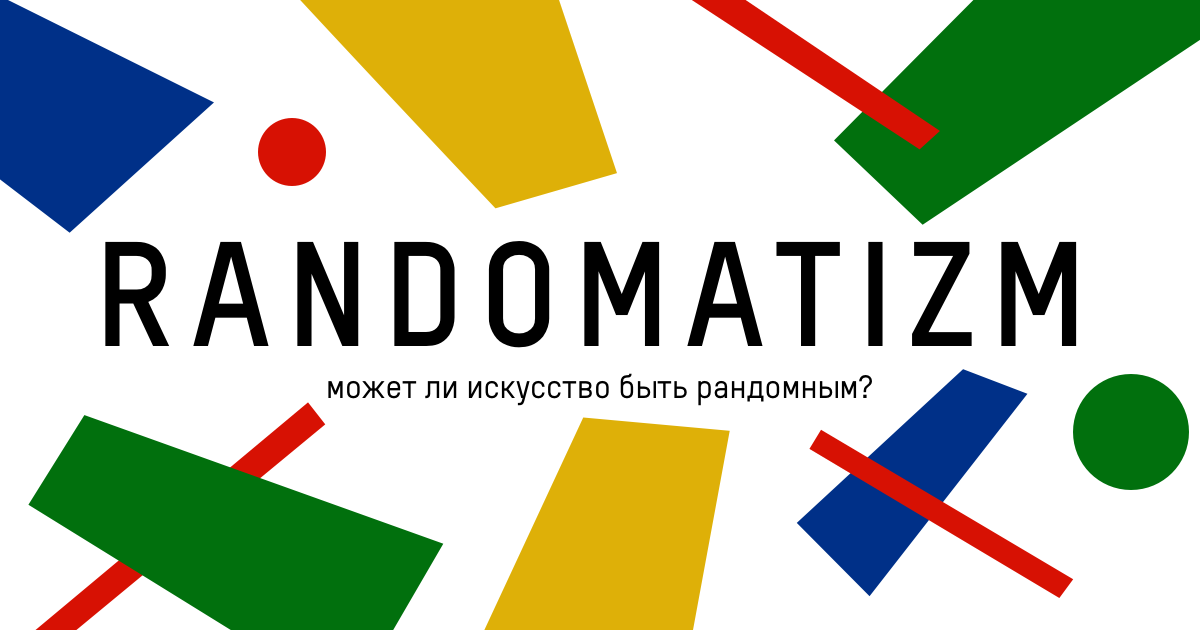
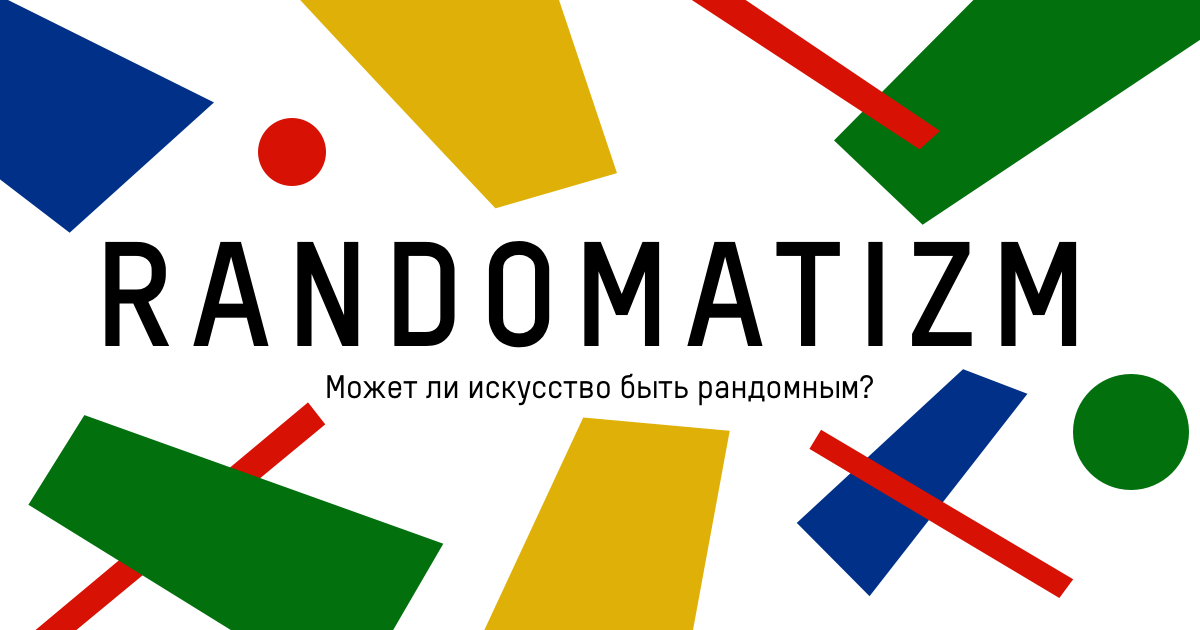
og, картинка

Changed region(s): [[0.2467, 0.6032, 0.74, 0.6333]]

diff --git a/index.html b/index.html
@@ -5,13 +5,13 @@
   <meta name="viewport" content="width=device-width">
   <title>RANDOMATIZM</title>
 
-  <meta name="description" content="Рандомизируем супрематизм.">
+  <meta name="description" content="Может ли искусство быть рандомным?">
   <meta name="keywords" content="art, suprematizm, random, randomatizm, malevich, design, avant-garde, hse, HSEDC2020">
 
   <meta property="og:type" content="website">
   <meta property="og:url" content="http://randomatizm.hack.exchange/">
-  <meta property="og:title" content="RANDOMATIZM">
-  <meta property="og:description" content="Рандомизируем супрематизм.">
+  <meta property="og:title" content="RANDOMATIZM — рандомизируем супрематизм">
+  <meta property="og:description" content="Может ли искусство быть рандомным?">
   <meta property="og:image" content="http://randomatizm.hack.exchange/materials/share.png">
 
 
@@ -70,7 +70,7 @@
       <div class="textFlex">
           <div class="text">
             <h1 class="topText"></h1>
-            <h2 class="bottomText">может ли искусство быть рандомным?</h2>
+            <h2 class="bottomText opacityZero">Может ли искусство быть рандомным?</h2>
           </div>
       </div>
 

diff --git a/stylesheets/index.css b/stylesheets/index.css
@@ -60,6 +60,10 @@ body {
   margin-top: -14vh;
 }
 
+.bottomText {
+  transition: 1s;
+}
+
 .arrow {
   position: absolute;
   width: 100vw;
@@ -207,7 +211,7 @@ h1 {
 h2 {
   font-size: 32px;
   font-family:  T-StarPro-Medium;
-  display: none;
+  /*display: none;*/
 }
 
 h3 {
@@ -298,9 +302,9 @@ p {
     font-family: T-StarPro;
   }
 
-  /*.picture {
-    position: relative;
-  }*/
+  .text {
+    margin-top: 0;
+  }
 
   .pic1, .pic2, .pic3, .pic4, .pic5, .pic6, .pic7, .pic8, .pic9, .pic10, .pic11, .pic12, .pic13, .pic14, .pic15, .pic16 {
     top: 0;

diff --git a/javascripts/scenario.js b/javascripts/scenario.js
@@ -13,19 +13,16 @@ $(function(){
     $('div.s1_bg').addClass('bgOpacity');
   }
 
-
+  function bottomText() {
+    $('.bottomText').toggleClass('opacityZero');
+  }
 
   $('.topText').fadeIn(10);
-
   $('.s1_bg').fadeIn(1000);
 
   setTimeout(bgOpacity, 2400)
-
   setTimeout(teletype, 2500)
-
-  $('.bottomText').delay(3500);
-  $('.bottomText').fadeIn(1000);
-
+  setTimeout(bottomText, 3500)
   setTimeout(comment, 3500)
 
   $('.arrow').delay(3700);

diff --git a/stylesheets/layout.css b/stylesheets/layout.css
@@ -94,6 +94,10 @@ a {
   display: none;
 }
 
+.opacityZero {
+  opacity: 0;
+}
+
 @media (max-width: 375px) {
   .about {
     width: 315px;
